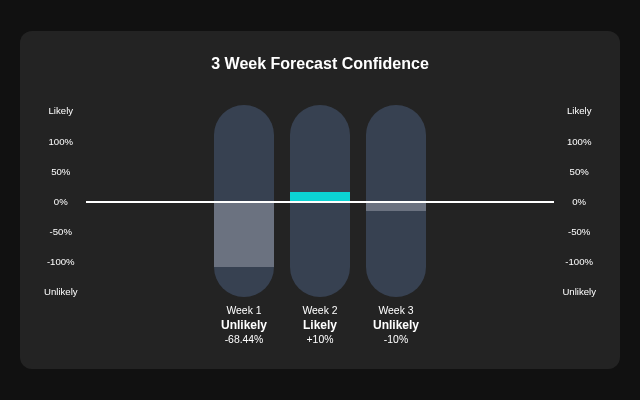
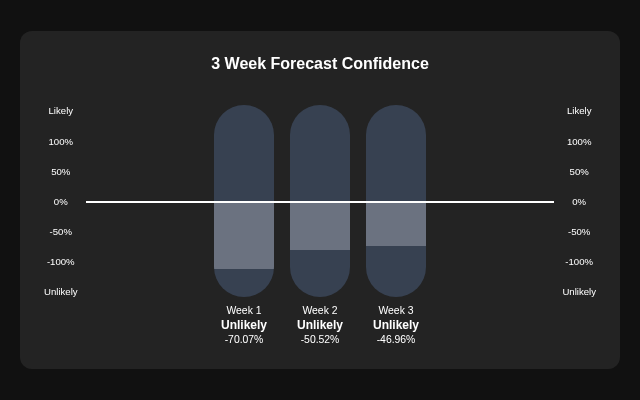
update of config and cleaning of data

diff --git a/Code/Scripts/forecast.py b/Code/Scripts/forecast.py
@@ -91,7 +91,7 @@ def create_single_model(E,theta,target,i_cols,lib, pred,HAB_embed,showPlot=False
     driver = f'{target}(t-0)'
     cols = i_cols
     pattern = re.compile(r"^CellCountDetection_Limit\(t-\d+\)$")
-    remove_cols_sub_strs = ["DENS", "TEMP"]
+    remove_cols_sub_strs = ["DENS", "TEMP", "Silicate", "Nitrate", "Ammonium", "Phosphate", "Nitrite"]
     cols = [c for c in cols if (not pattern.match(c)) and not any(sub in c for sub in remove_cols_sub_strs)]
     try:
         result = SMap(
@@ -218,7 +218,7 @@ def clean_data(data, path=True):
     return paper_data
 
 def get_live_data():
-    FILE_ID = "1YxTrX480TEnvrDQFfbgW3WBhk1WZ3WoZO6aBEdqupkU"     # your sheet
+    FILE_ID = "1fsoKG9VZxRe5kCuvIV6nPfKu2SDeVA5B"     # your sheet/csv
     SERVICE_JSON = load_google_credentials_path()  # path to your service account key file
 
     # --- auth ---
@@ -229,11 +229,13 @@ def get_live_data():
     drive = build("drive", "v3", credentials=creds)
 
     # --- export Google Sheet -> CSV ---
-    request = drive.files().export_media(
-        fileId=FILE_ID,
-        mimeType="text/csv",
-        # **required for Shared Drives** :contentReference[oaicite:0]{index=0}
-    )
+    # request = drive.files().export_media(
+    #     fileId=FILE_ID,
+    #     mimeType="text/csv",
+    #     # **required for Shared Drives** :contentReference[oaicite:0]{index=0}
+    # )
+    
+    request = drive.files().get_media(fileId=FILE_ID)  # for Shared Drives, use get_media instead of export_media
 
     fh = io.BytesIO()
     downloader = MediaIoBaseDownload(fh, request)
@@ -243,6 +245,7 @@ def get_live_data():
 
     fh.seek(0)                     # rewind the buffer
     df = pd.read_csv(fh)           # straight into pandas
+    df.columns = df.columns.str.strip()  # remove leading/trailing whitespace from column names
     return df
 
 def adjust_live_data(past_data_path, target):  
